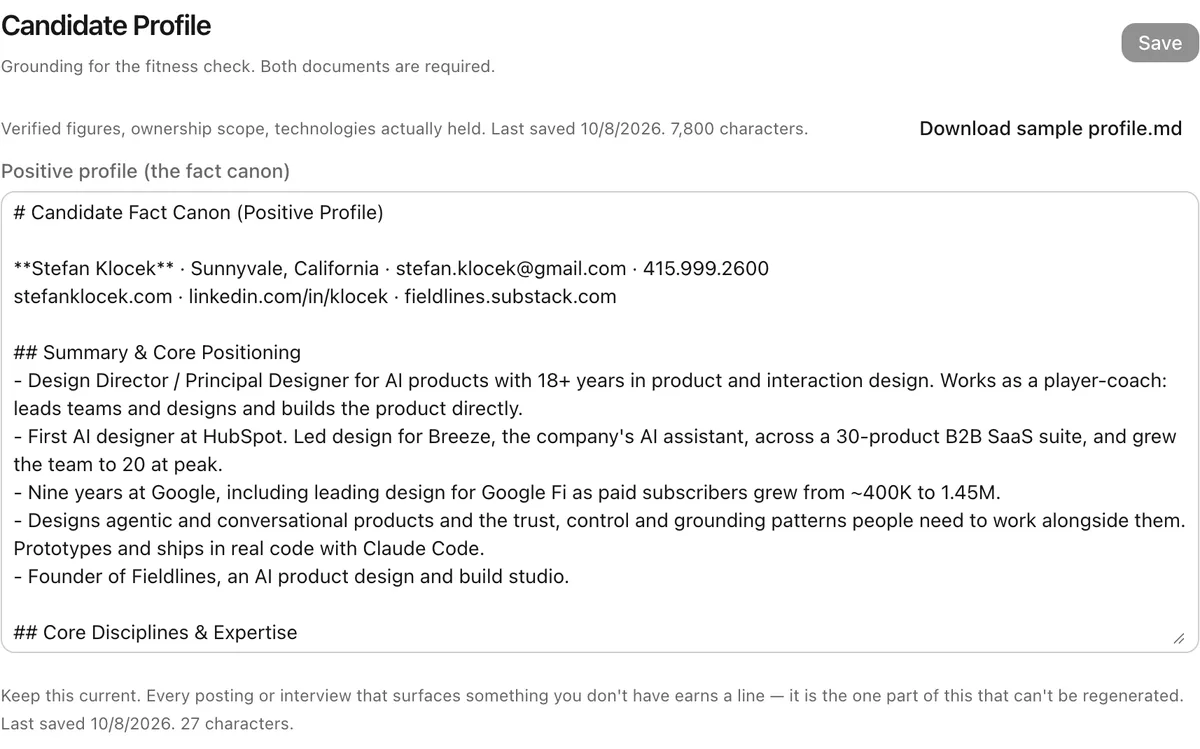
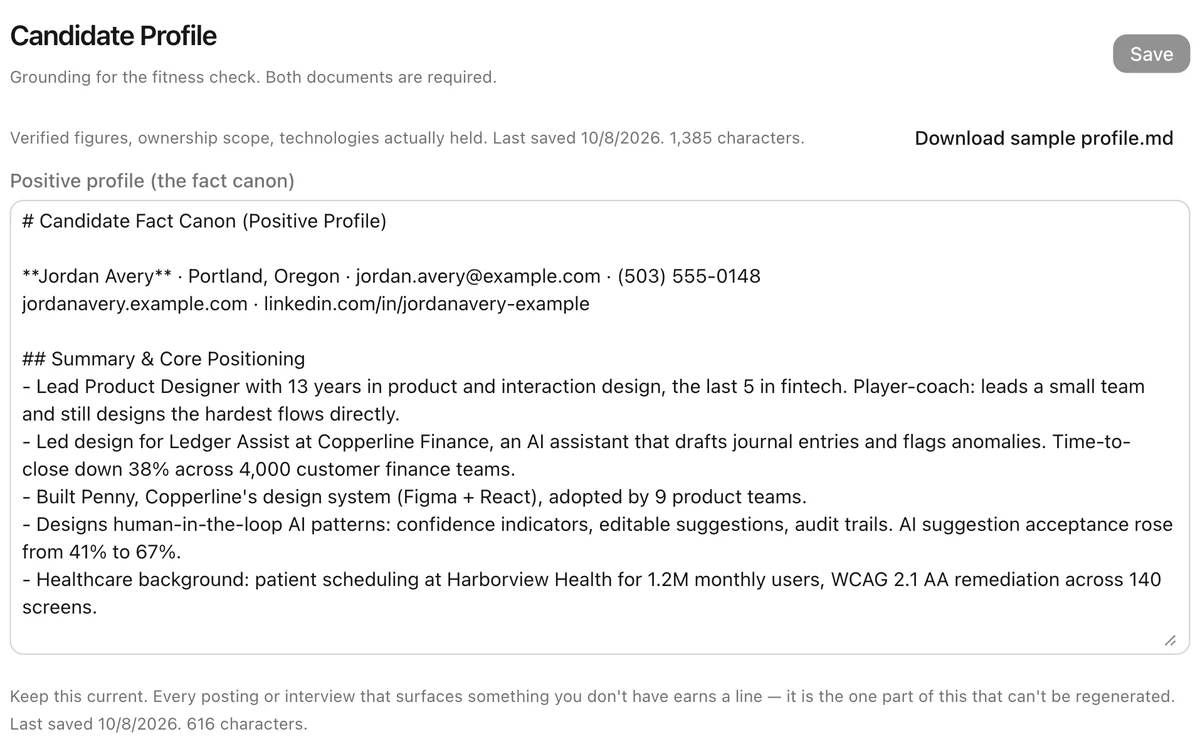
feat(landing): new screenshots from the demo account with synthetic data
Every landing-page screenshot except the Claude connector settings is
retaken from the dev demo account, seeded with a fictional candidate
(Jordan Avery), fictional employers and postings, and a synthetic
pipeline. No real names, contact details, or applications appear.
Image dimensions in SHOTS follow the new files.

diff --git a/src/components/LandingPage.tsx b/src/components/LandingPage.tsx
@@ -134,20 +134,20 @@ function FeatureSection({
 }
 
 const SHOTS = {
-  dashboard: { src: "/hero/pipeline-dashboard.webp", alt: "Job search dashboard showing saved roles, application stages, and fit and resume-match scores.", width: 2400, height: 1177, mobile: { src: "/hero/pipeline-dashboard-mobile.webp", width: 1200, height: 344 } },
-  drilldown: { src: "/hero/pipeline-drilldown.webp", alt: "Applications at the recruiter stage, with each role's progress through earlier stages.", width: 2400, height: 1382, mobile: { src: "/hero/pipeline-drilldown-mobile.webp", width: 1200, height: 1061 } },
-  clip: { src: "/hero/extension-clip.webp", alt: "Chrome side panel capturing a job's company, title, salary, and description from a careers page.", width: 2400, height: 1182, mobile: { src: "/hero/extension-clip-mobile.webp", width: 729, height: 1174 } },
-  fitness: { src: "/hero/fitness-check.webp", alt: "Role-fit review with a 1–10 score and an explanation of how the candidate's experience relates to each requirement.", width: 2400, height: 1177, mobile: { src: "/hero/fitness-check-mobile.webp", width: 1200, height: 630 } },
-  profile: { src: "/hero/candidate-profile.webp", alt: "Candidate profile containing experience and accomplishments, alongside gaps and context for future applications.", width: 1788, height: 1715, mobile: { src: "/hero/candidate-profile-mobile.webp", width: 1200, height: 749 } },
-  ats: { src: "/hero/ats-qualification.webp", alt: "Resume-match review showing a score, highlighted skills, and checks for clear structure and searchable information.", width: 2400, height: 1177, mobile: { src: "/hero/ats-qualification-mobile.webp", width: 1200, height: 757 } },
-  slop: { src: "/hero/ai-authenticity.webp", alt: "Writing review highlighting formulaic phrases, elaborate openings, and repeated sentence patterns in a resume.", width: 1851, height: 1010 },
-  rewriter: { src: "/hero/tailored-rewriter.webp", alt: "Tailored resume with individual changes available to accept or dismiss beside the employer's application form.", width: 2400, height: 1177, mobile: { src: "/hero/tailored-rewriter-mobile.webp", width: 1200, height: 757 } },
-  coverLetter: { src: "/hero/cover-letter.webp", alt: "Editable cover letter with contact details beside an employer's application form.", width: 2400, height: 1177, mobile: { src: "/hero/cover-letter-mobile.webp", width: 1200, height: 757 } },
-  fill: { src: "/hero/extension-fill.webp", alt: "Chrome extension filling saved application details into an Ashby application form.", width: 2400, height: 1182, mobile: { src: "/hero/extension-fill-mobile.webp", width: 729, height: 1227 } },
-  providers: { src: "/hero/ai-providers.webp", alt: "AI settings with options to connect Anthropic Claude, Google Gemini, xAI Grok, and Mistral AI.", width: 1794, height: 1704 },
+  dashboard: { src: "/hero/pipeline-dashboard.webp", alt: "Job search dashboard showing saved roles, application stages, and fit and resume-match scores.", width: 2400, height: 1178, mobile: { src: "/hero/pipeline-dashboard-mobile.webp", width: 1200, height: 360 } },
+  drilldown: { src: "/hero/pipeline-drilldown.webp", alt: "Applications at the recruiter stage, with each role's progress through earlier stages.", width: 1896, height: 981, mobile: { src: "/hero/pipeline-drilldown-mobile.webp", width: 1200, height: 934 } },
+  clip: { src: "/hero/extension-clip.webp", alt: "Chrome side panel capturing a job's company, title, salary, and description from a careers page.", width: 2400, height: 1182, mobile: { src: "/hero/extension-clip-mobile.webp", width: 656, height: 1170 } },
+  fitness: { src: "/hero/fitness-check.webp", alt: "Role-fit review with a 1–10 score and an explanation of how the candidate's experience relates to each requirement.", width: 2400, height: 1178, mobile: { src: "/hero/fitness-check-mobile.webp", width: 1200, height: 630 } },
+  profile: { src: "/hero/candidate-profile.webp", alt: "Candidate profile containing experience and accomplishments, alongside gaps and context for future applications.", width: 1772, height: 1844, mobile: { src: "/hero/candidate-profile-mobile.webp", width: 1200, height: 749 } },
+  ats: { src: "/hero/ats-qualification.webp", alt: "Resume-match review showing a score, highlighted skills, and checks for clear structure and searchable information.", width: 2400, height: 1178, mobile: { src: "/hero/ats-qualification-mobile.webp", width: 1200, height: 758 } },
+  slop: { src: "/hero/ai-authenticity.webp", alt: "Writing review highlighting formulaic phrases, elaborate openings, and repeated sentence patterns in a resume.", width: 1685, height: 1034 },
+  rewriter: { src: "/hero/tailored-rewriter.webp", alt: "Tailored resume with individual changes available to accept or dismiss beside the employer's application form.", width: 2400, height: 1178, mobile: { src: "/hero/tailored-rewriter-mobile.webp", width: 1200, height: 758 } },
+  coverLetter: { src: "/hero/cover-letter.webp", alt: "Editable cover letter with contact details beside an employer's application form.", width: 2400, height: 1178, mobile: { src: "/hero/cover-letter-mobile.webp", width: 1200, height: 758 } },
+  fill: { src: "/hero/extension-fill.webp", alt: "Chrome extension filling saved application details into an employer's application form.", width: 2400, height: 1182, mobile: { src: "/hero/extension-fill-mobile.webp", width: 656, height: 1350 } },
+  providers: { src: "/hero/ai-providers.webp", alt: "AI settings with options to connect Anthropic Claude, Google Gemini, xAI Grok, and Mistral AI.", width: 1800, height: 1566 },
   connector: { src: "/hero/claude-connector.webp", alt: "Job Search connected to Claude, with tools for reading and updating applications, profiles, and resumes.", width: 1840, height: 1436 },
-  importSheet: { src: "/hero/import-sheet.webp", alt: "Job import options for a Google Sheet link or CSV upload.", width: 1018, height: 776 },
-  resumes: { src: "/hero/resumes.webp", alt: "Saved resumes with tags showing the companies each version was used for.", width: 1714, height: 1419 },
+  importSheet: { src: "/hero/import-sheet.webp", alt: "Job import options for a Google Sheet link or CSV upload.", width: 968, height: 728 },
+  resumes: { src: "/hero/resumes.webp", alt: "Saved resumes with tags showing the companies each version was used for.", width: 1728, height: 1560 },
 } satisfies Record<string, Shot>;
 
 const HIGHLIGHTS = [
